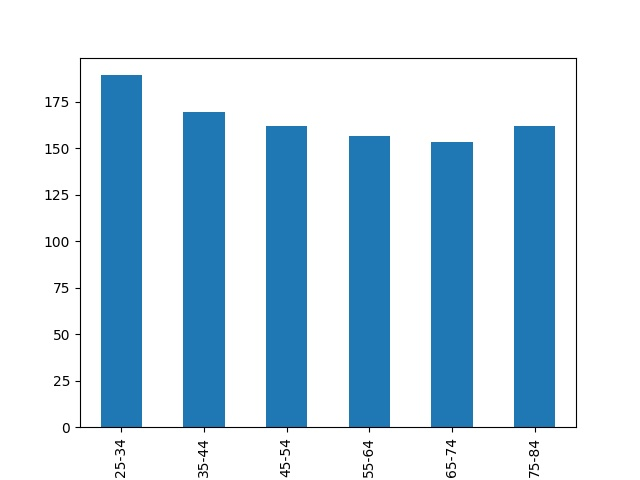
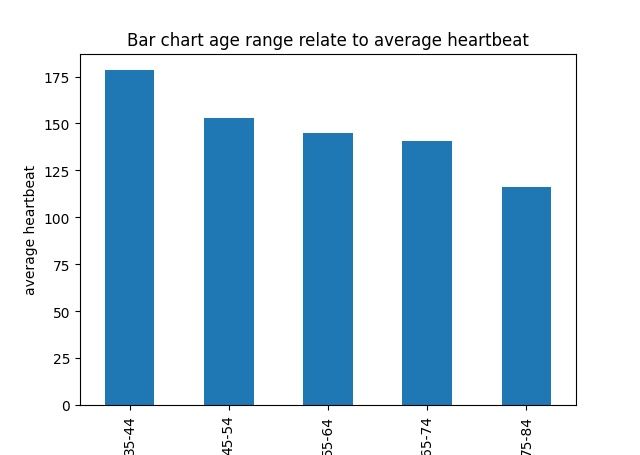
second commit

diff --git a/without-pandas.py b/without-pandas.py
@@ -1,0 +1,48 @@
+import csv
+
+import matplotlib.pyplot as plt
+
+
+def to_match(age):
+    if 25 <= age <= 34:
+        return "25-34"
+    elif 35 <= age <= 44:
+        return "35-44"
+    elif 45 <= age <= 54:
+        return "45-54"
+    elif 55 <= age <= 64:
+        return "55-64"
+    elif 65 <= age <= 74:
+        return "65-74"
+    elif 75 <= age <= 84:
+        return "75-84"
+
+
+reader = csv.reader(open('heart 1.csv'), delimiter=',')
+next(reader)
+result = []
+dicty = dict()
+
+for row in reader:
+    if int(row[3]) >= 140:
+        result.append(row)
+        age = to_match(int(row[0]))
+        if age in dicty:
+            dicty[age][1] += 1
+            dicty[age][0] += int(row[-1])
+        else:
+            dicty[age] = [int(row[-1]), 1]
+
+for key, value in dicty.items():
+    dicty[key] = value[0]/value[1]
+
+dicty=sorted(dicty.items())
+
+plt.title("Bar chart age range relate to average heartbeat")
+plt.xlabel("age ranges")
+plt.ylabel("average heartbeat")
+
+plt.bar(*zip(*dicty))
+
+if __name__ == '__main__':
+    plt.show()

diff --git a/main.py b/main.py
@@ -2,7 +2,7 @@ import matplotlib.pyplot as plt
 import pandas as pd
 
 result = pd.read_csv('heart 1.csv', delimiter=',')
-result = result[result.thalachh >= 140]
+result = result[result.trtbps >= 140]
 
 
 def to_match(age):
@@ -20,9 +20,12 @@ def to_match(age):
         return "75-84"
 
 
-result['diapazons'] = result['age'].apply(lambda x: to_match(x))
+result['age_ranges'] = result['age'].apply(lambda x: to_match(x))
+result = result.groupby('age_ranges').thalachh.mean()
 
-result = result.groupby('diapazons').thalachh.mean()
+plt.title("Bar chart age range relate to average heartbeat")
+plt.xlabel("age ranges")
+plt.ylabel("average heartbeat")
 result.plot(kind='bar')
 
 if __name__ == '__main__':
